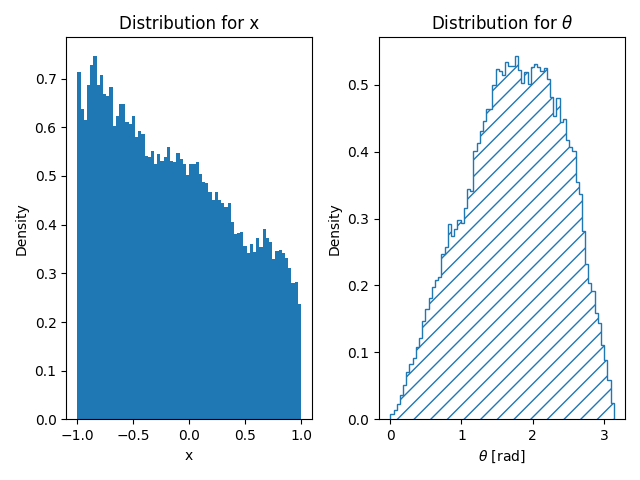
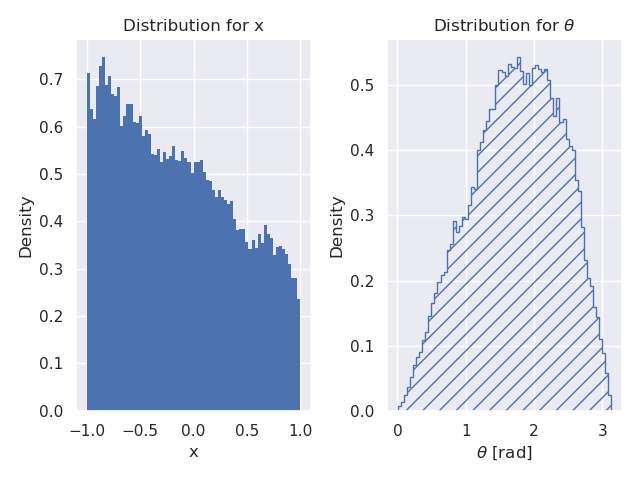
plot

diff --git a/H2/python/Plot_task1.py b/H2/python/Plot_task1.py
@@ -3,8 +3,8 @@ import numpy as np
 import pandas as pd
 import matplotlib.pyplot as plt
 
-#import seaborn as sns
-#sns.set_theme()
+import seaborn as sns
+sns.set_theme()
 
 
 arr_R1 =np.genfromtxt("../R1.csv", delimiter=',')
@@ -81,7 +81,7 @@ ax_theta[0].set_xlabel('x')
 ax_theta[0].set_ylabel('Density')
 
 Fill = False
-ax_theta[1].stairs(counts_theta, bins_theta, fill = Fill, hatch='//')
+ax_theta[1].stairs(counts_theta, bins_theta, fill = Fill)
 ax_theta[1].set_title(r'Distribution for $\theta$')
 ax_theta[1].set_xlabel(r'$\theta$ [rad]')
 ax_theta[1].set_ylabel('Density')
